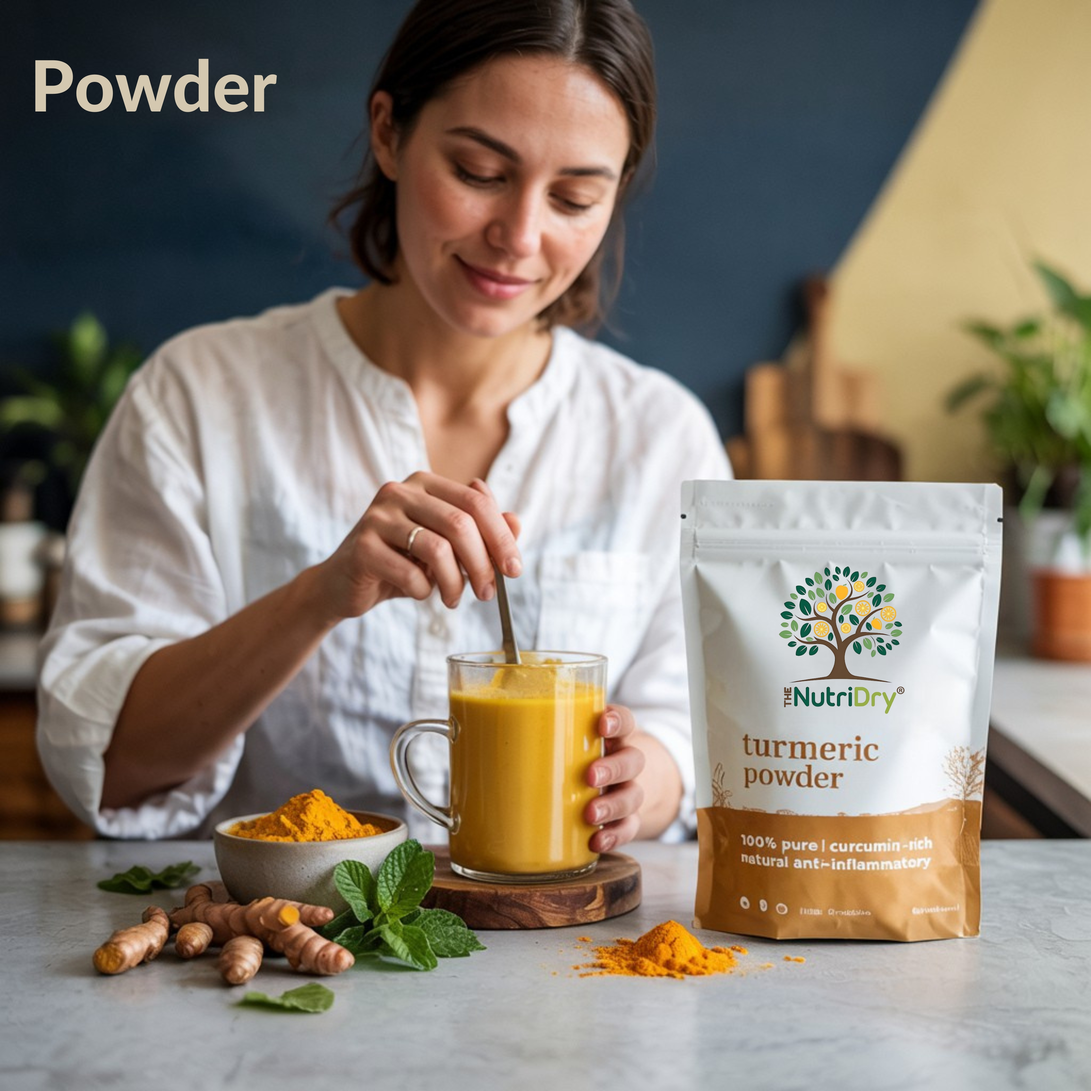
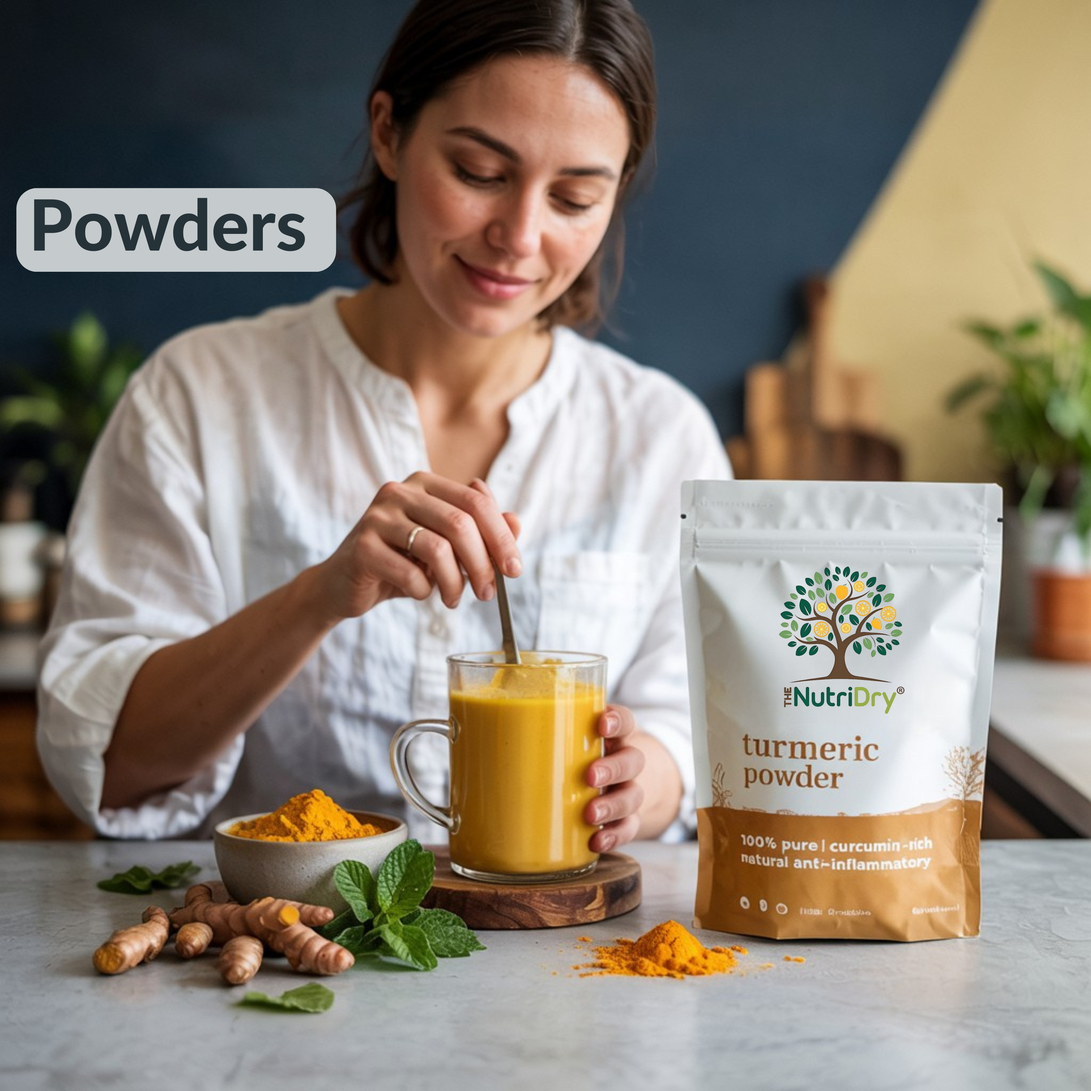
categories changes

Changed region(s): [[0.0, 0.1562, 0.3125, 0.25], [0.0312, 0.0312, 0.25, 0.125]]

diff --git a/src/app/page.tsx b/src/app/page.tsx
@@ -25,12 +25,12 @@ export default function Home() {
               href="/products"
             />
             <CategoryCard 
-              title="Dehydrated Powders" 
+              title="Powders" 
               image="/products/2pro.jpg" 
               href="/products"
             />
             <CategoryCard 
-              title="Dehydrated Flakes" 
+              title="Flakes" 
               image="/products/3pro.jpg" 
               href="/products"
             />
